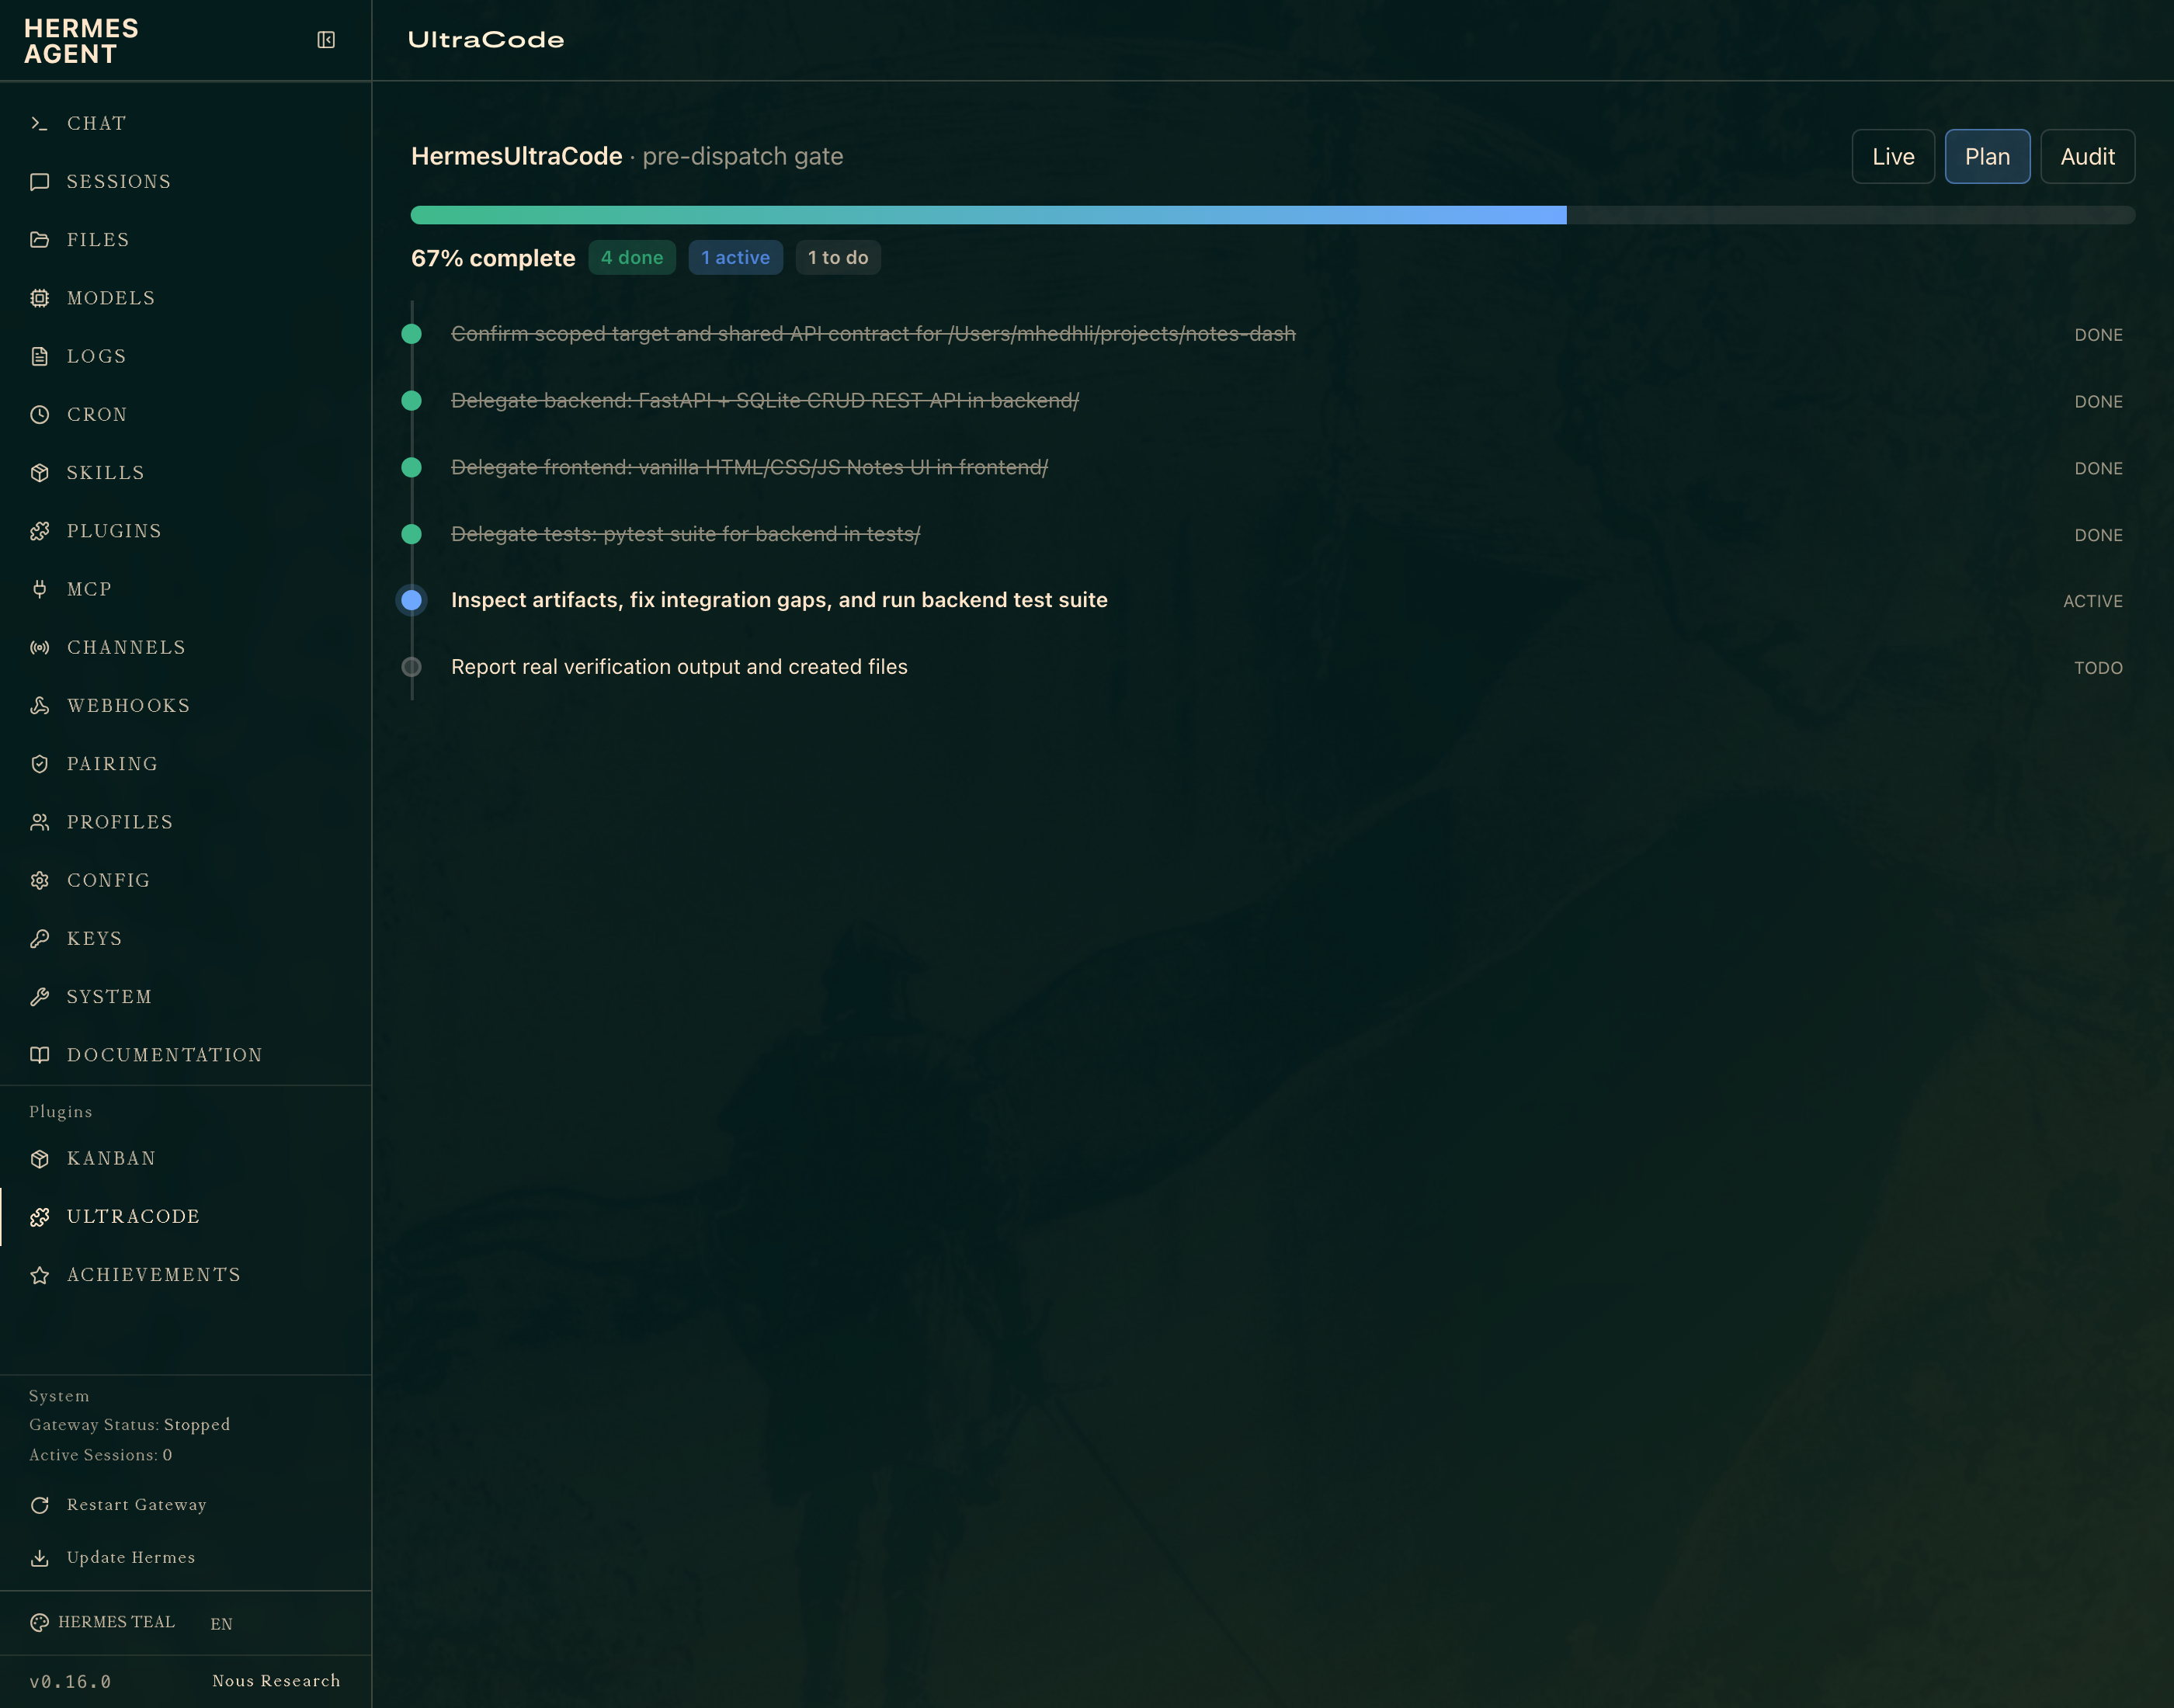
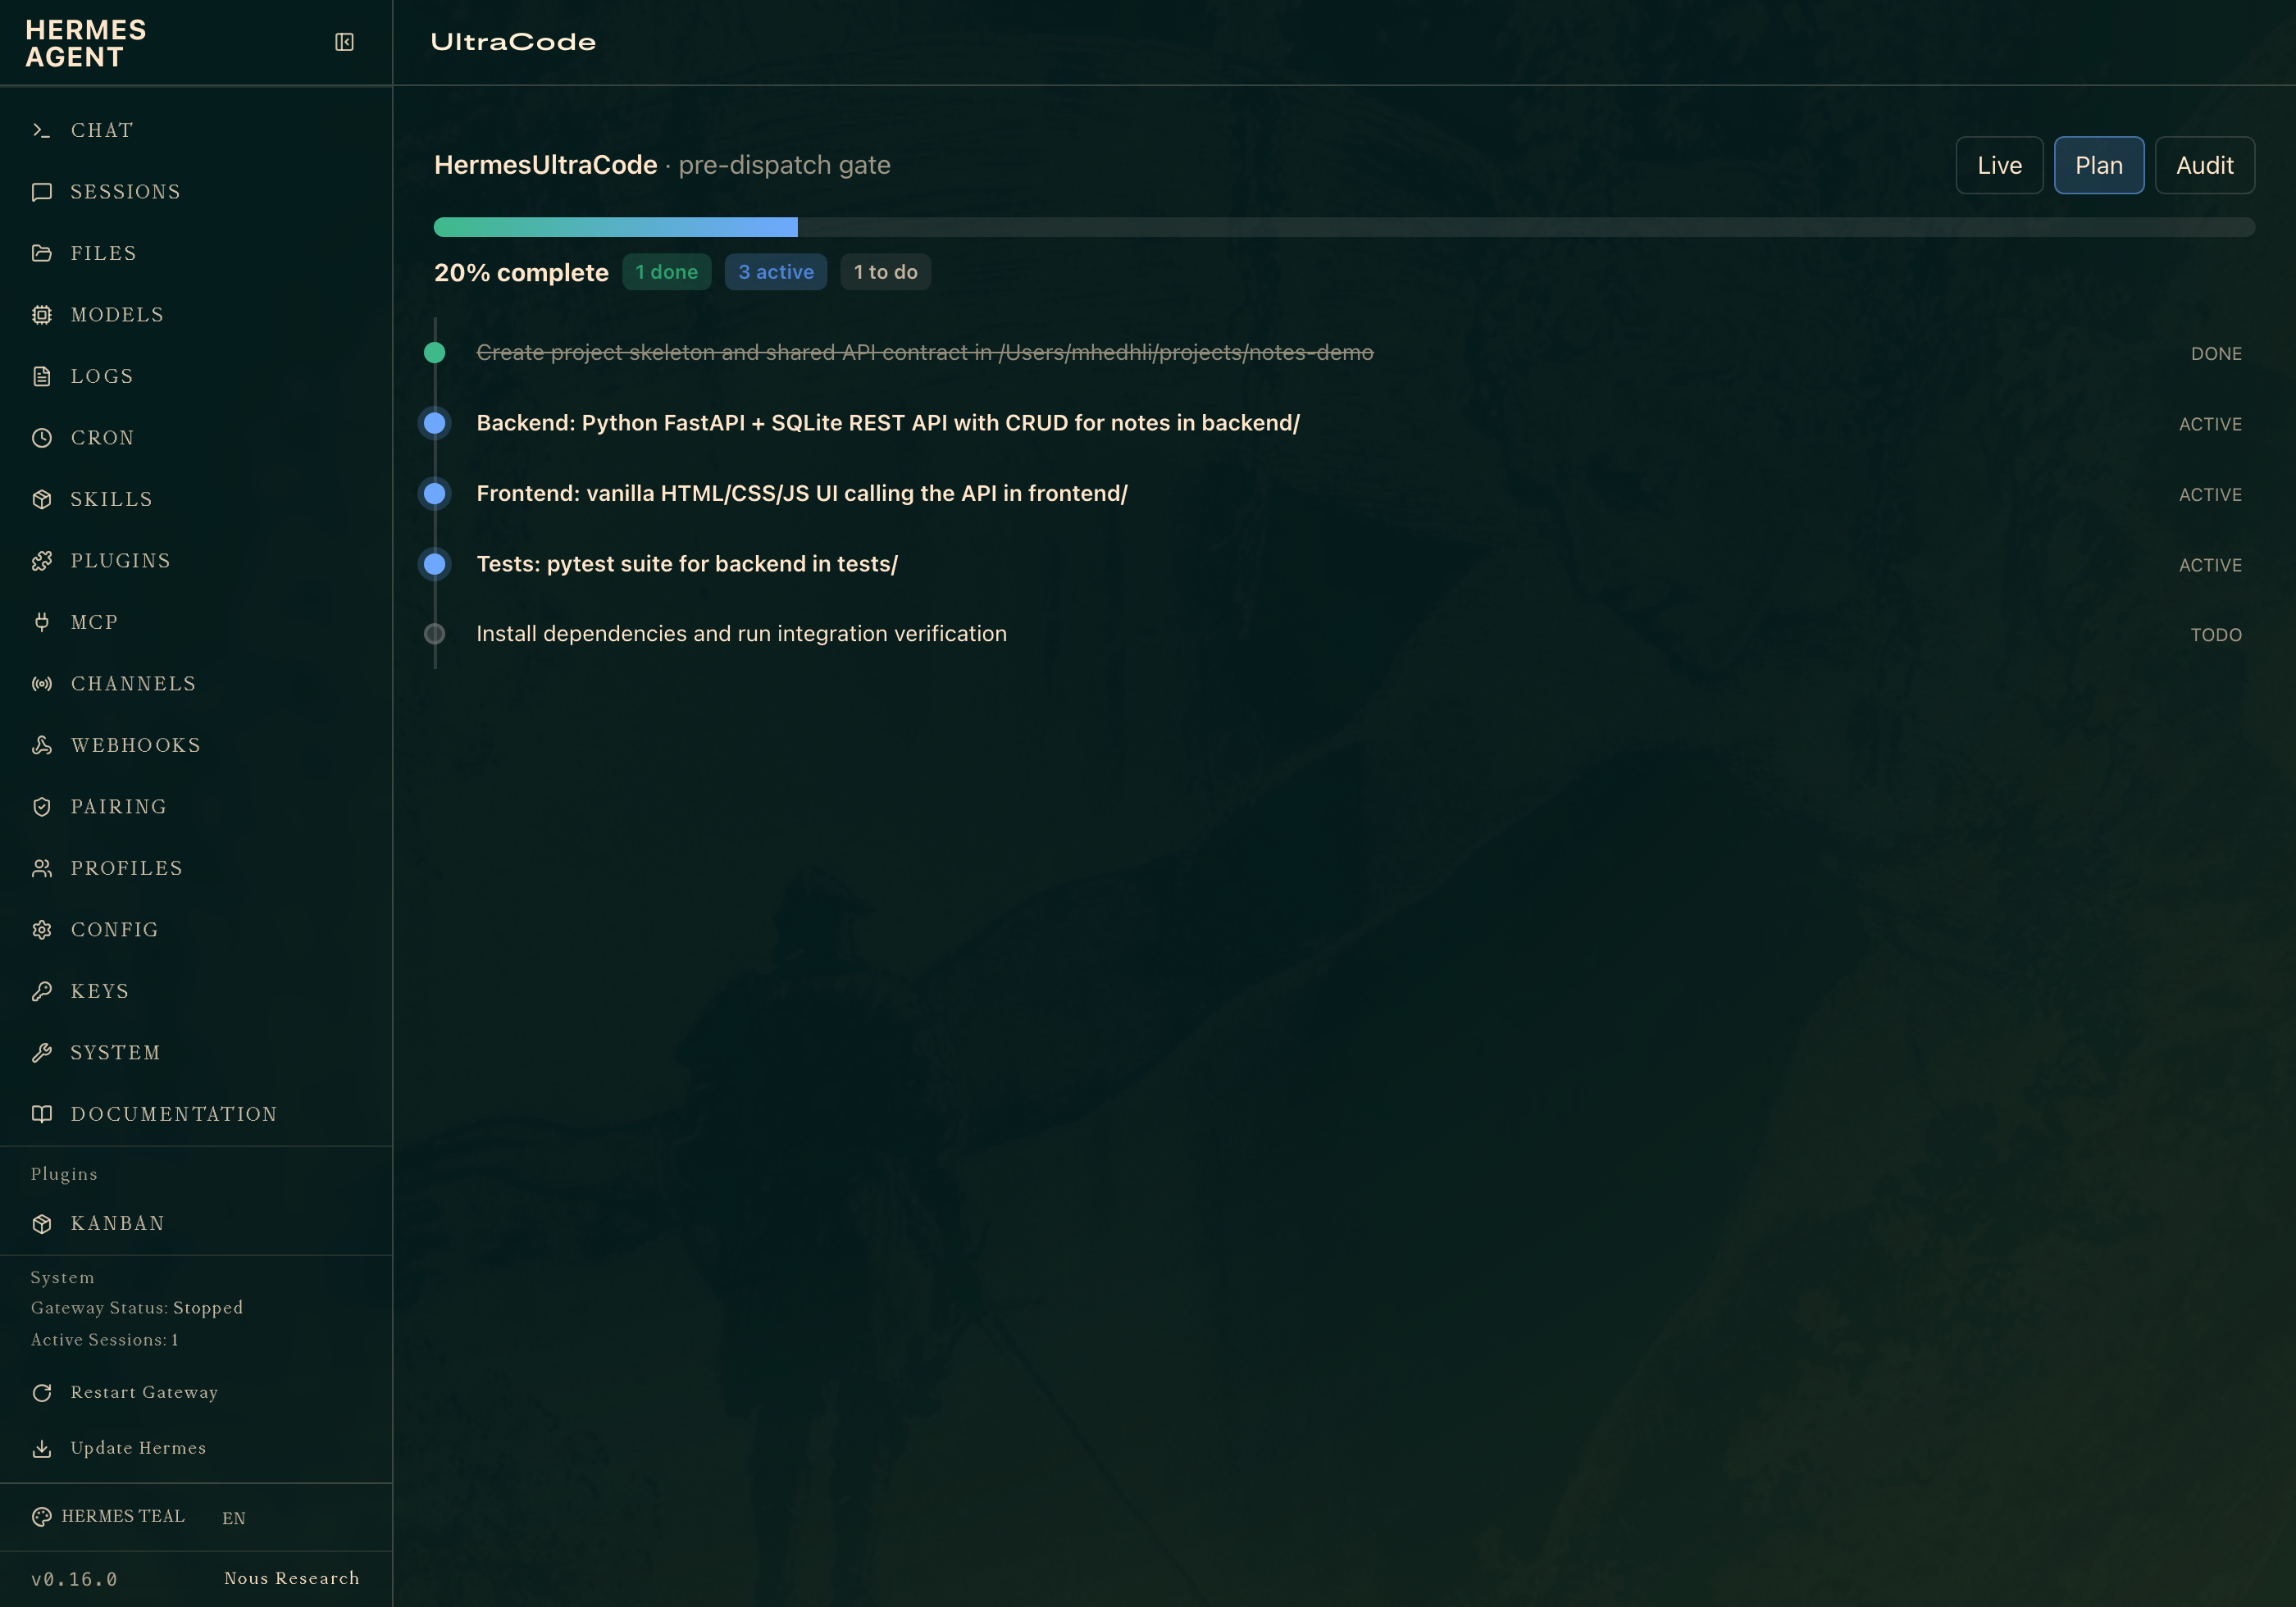
docs: killer native-tab demo shots (3 parallel agents) — verified on a fresh install
Re-captured the native UltraCode dashboard tab from a clean remove→reinstall of the plugin
(hermes plugins install MahdiHedhli/HermesUltraCode) running a real parallel build: Live
(orchestrator + 3 subagents, each gate-reviewed with the directory directive + feed), Plan,
and Audit (the gate history with tiers/verdicts/decisions + fail-closed). Hero now leads
with the live 3-agent shot and pairs Plan + Audit.

diff --git a/README.md b/README.md
@@ -16,14 +16,11 @@
 <p align="center"><sub>A <b>native tab in the Hermes web dashboard</b> (sidebar, right under Kanban) during a real multi-agent build — the orchestrator + <b>subagents in parallel</b>, each with its task, tool log, and <b>the reviewer's tightening directive</b>. Ships <i>inside</i> the plugin — zero extra install.</sub></p>
 
 <p align="center">
-  <img src="docs/dashboard-tab-plan.png" alt="The Plan sub-tab — the orchestrator's live build stages: done, active, to do" width="860">
+  <img src="docs/dashboard-tab-plan.png" alt="The Plan sub-tab — the orchestrator's live build stages: done, active, to do" width="430">
+  &nbsp;
+  <img src="docs/dashboard-tab-audit.png" alt="The Audit sub-tab — the immutable trail with tiers, verdicts, decisions, and the fail-closed flag" width="430">
 </p>
-<p align="center"><sub>The <b>Plan</b> sub-tab — the orchestrator's live build stages (<i>done · active · to&nbsp;do</i>), read from its <code>todo</code> tool. The same views are also a <b>build-free standalone dashboard</b> (<code>hermes ultracode-dashboard</code>) when you want it decoupled.</sub></p>
-
-<p align="center">
-  <img src="docs/dashboard.png" alt="Immutable audit trail with blast-radius tier badges, decision badges, and the fail-closed counter" width="860">
-</p>
-<p align="center"><sub>The immutable <b>audit trail</b> — blast-radius tier badges, per-dispatch verdicts, and a <b>fail-closed counter</b> so silent degradation is <i>visible</i>, not hidden.</sub></p>
+<p align="center"><sub>Same tab, more sub-views — <b>Plan</b> (left): the orchestrator's live build stages (<i>done · active · to&nbsp;do</i>) from its <code>todo</code> tool; <b>Audit</b> (right): the immutable trail — blast-radius tiers, per-dispatch verdicts/decisions, and the <b>fail-closed</b> flag so silent degradation is <i>visible</i>. The same views are also a <b>build-free standalone dashboard</b> (<code>hermes ultracode-dashboard</code>) when you want it decoupled.</sub></p>
 
 A self-contained **pre-dispatch prompt gate**, **neckbeard generation discipline**, and
 **observability dashboard** layered onto an existing